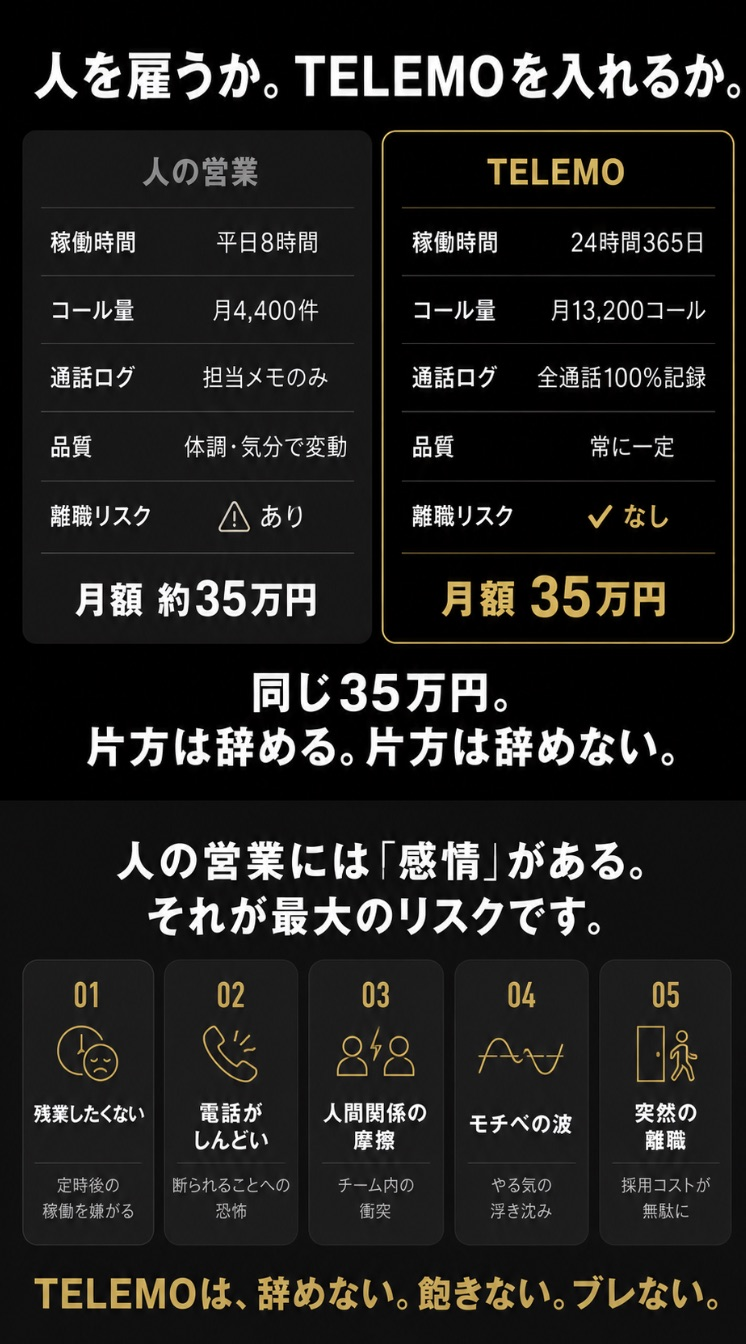
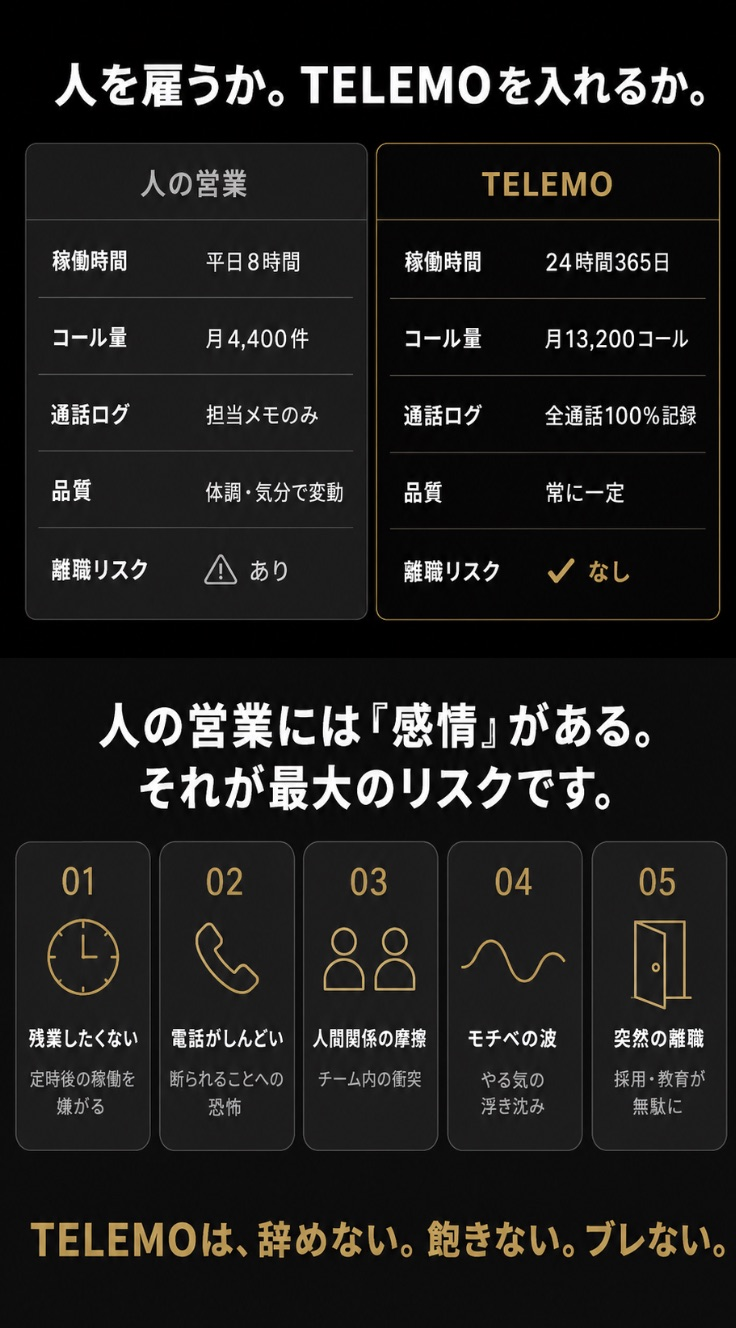
6枚目を価格なし版に差し替え
価格情報を削除し、リスク比較のみの構成に変更

Changed region(s): [[0.0312, 0.0309, 1.0, 0.988], [0.0312, 0.0309, 0.4688, 0.4631]]

diff --git a/index.html b/index.html
@@ -138,7 +138,7 @@
 
   <!-- Section 6: コスト比較 + 感情リスク -->
   <div class="section">
-    <img src="images/section6.jpg" width="746" height="1344" alt="人を雇うか。TELEMOを入れるか。同じ35万円。片方は辞める。片方は辞めない。" loading="lazy">
+    <img src="images/section6.jpg" width="736" height="1328" alt="人を雇うか。TELEMOを入れるか。同じ35万円。片方は辞める。片方は辞めない。" loading="lazy">
   </div>
 
   <!-- CTA after Section 6 -->
